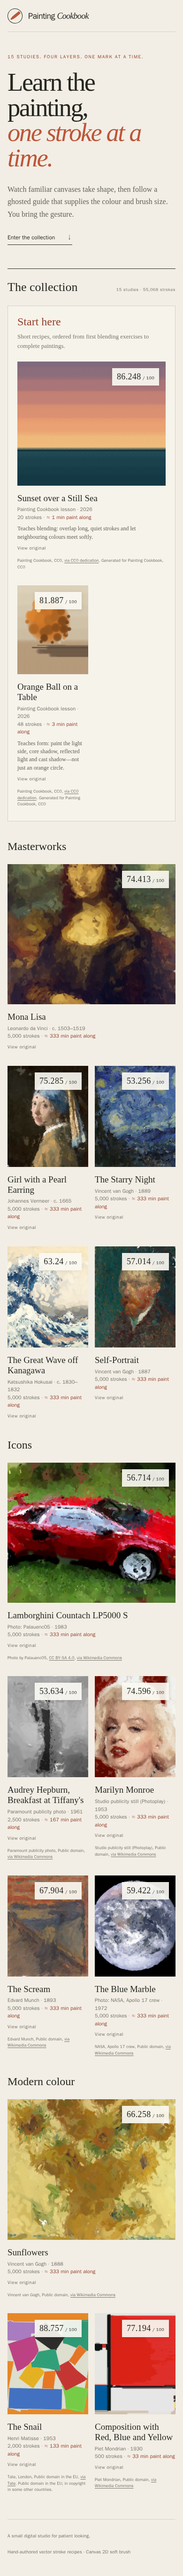
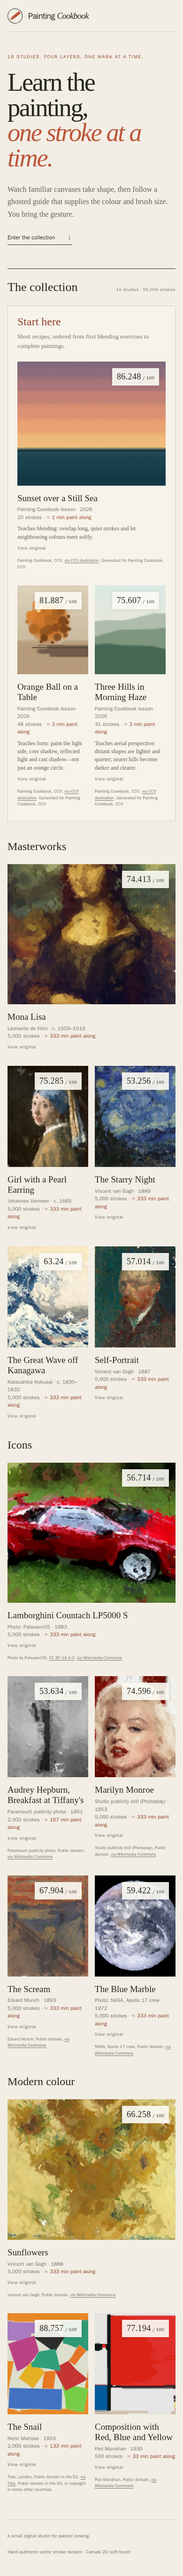
Add lesson-hills
Recipe(s) written by Kimi K3.1 Pro on Cerebras via OpenClaw; reviewed and published by Claude.

Changed region(s): [[0.5231, 0.2185, 0.9231, 0.3121]]

diff --git a/tools/plan_start.py b/tools/plan_start.py
@@ -9,7 +9,7 @@ import json
 from pathlib import Path
 
 import numpy as np
-from PIL import Image
+from PIL import Image, ImageDraw
 
 ROOT = Path(__file__).resolve().parents[1]
 STAGES = [
@@ -29,10 +29,16 @@ META = {
         "description": "One orange ball explains form in a handful of dabs: warm upper-left light, a deep core shadow, a quieter reflected edge and a cast shadow anchoring it to the table.",
         "lessonTip": "Teaches form: paint the light side, core shadow, reflected light and cast shadow—not just an orange circle.",
     },
+    "lesson-hills": {
+        "title": "Three Hills in Morning Haze", "artist": "Painting Cookbook lesson", "year": "2026",
+        "description": "Three overlapping hill bands demonstrate aerial perspective: the distant ridge is pale and quiet, the middle hill is cooler and darker, and the nearest slope carries the deepest green under a pale morning sky.",
+        "lessonTip": "Teaches aerial perspective: distant shapes are lighter and quieter; nearer hills become darker and clearer.",
+    },
 }
 CREDIT = {
     "lesson-sky": {"author": "Painting Cookbook", "licence": "CC0", "source": "CC0 dedication", "url": "https://creativecommons.org/publicdomain/zero/1.0/", "note": "Generated for Painting Cookbook, CC0"},
     "lesson-sphere": {"author": "Painting Cookbook", "licence": "CC0", "source": "CC0 dedication", "url": "https://creativecommons.org/publicdomain/zero/1.0/", "note": "Generated for Painting Cookbook, CC0"},
+    "lesson-hills": {"author": "Painting Cookbook", "licence": "CC0", "source": "CC0 dedication", "url": "https://creativecommons.org/publicdomain/zero/1.0/", "note": "Generated for Painting Cookbook, CC0"},
 }
 
 
@@ -174,7 +180,64 @@ def lesson_sphere():
     return recipe
 
 
-BUILDERS = {"lesson-sky": lesson_sky, "lesson-sphere": lesson_sphere}
+def lesson_hills():
+    """Thirty-one calm marks make three value-separated overlapping ridges."""
+    pid = "lesson-hills"
+    width, height = 960, 600
+    x = np.arange(width, dtype=float)
+
+    def ridge(base, long_amp, long_period, short_amp, short_period, phase):
+        return base + long_amp * np.sin(x / long_period + phase) + short_amp * np.sin(x / short_period + phase * 0.37)
+
+    definitions = [
+        ("far", ridge(250, 28, 170, 12, 61, 0.4), "#aebdac", 66),
+        ("middle", ridge(350, 42, 190, 17, 85, 1.0), "#7f967f", 76),
+        ("near", ridge(462, 34, 150, 14, 63, 2.0), "#476955", 86),
+    ]
+    top = rgb("#dce9e5")[None, :]
+    bottom = rgb("#f1e5cd")[None, :]
+    yy = np.arange(height, dtype=float)[:, None]
+    sky_values = top * (1 - yy / height) + bottom * (yy / height)
+    pixels = np.repeat(sky_values[:, None, :], width, axis=1)
+    reference = Image.fromarray(np.uint8(np.clip(pixels, 0, 255)), "RGB")
+    draw = ImageDraw.Draw(reference)
+    for _, top_y, c, _ in definitions:
+        polygon = [(int(xx), int(round(y))) for xx, y in zip(x, top_y)] + [(width - 1, height), (0, height)]
+        draw.polygon(polygon, fill=c)
+    reference.save(ROOT / "references" / f"{pid}.png")
+
+    recipe = recipe_shell(pid, width, height, "#eee2cb")
+    blocking, form, refinement, detail = [], [], [], []
+    for y in np.linspace(20, 410, 7):
+        blocking.append(stroke([-20, y, width + 20, y], colour(sky_values[int(y)]), 112, 0.96))
+
+    for index, (_, top_y, c, diameter) in enumerate(definitions):
+        # Broad contour strokes establish each overlap before the next ridge.
+        contour_path = []
+        for xx in np.linspace(0, width, 10):
+            contour_path.extend([xx, float(np.interp(xx, x, top_y))])
+        form.append(stroke(contour_path, c, diameter, 1.0))
+        lane_min = float(top_y.min() + diameter * 0.42)
+        for y in np.arange(lane_min, height + 20, 50):
+            inside = y >= top_y
+            padded = np.pad(inside.astype(np.uint8), (1, 1))
+            changes = np.diff(padded)
+            starts = np.flatnonzero(changes == 1)
+            ends = np.flatnonzero(changes == 255)
+            for start_x, end_x in zip(starts, ends):
+                if end_x - start_x > 5:
+                    form.append(stroke([start_x - 3, y, end_x + 3, y], c, diameter, 1.0))
+        # A fine crest pass clarifies the silhouette without adding detail noise.
+        target = detail if index == 2 else refinement
+        target.append(stroke(contour_path, c, 24 if index == 0 else 28, 1.0))
+
+    add_stages(recipe, [blocking, form, refinement, detail])
+    recipe["planner"] = "31 hand-paintable marks: seven quiet sky blends, horizontal hill fills and one broad plus one fine crest stroke for each overlapping value band"
+    assert 30 <= recipe["strokeCount"] <= 60
+    return recipe
+
+
+BUILDERS = {"lesson-sky": lesson_sky, "lesson-sphere": lesson_sphere, "lesson-hills": lesson_hills}
 
 
 def main():

diff --git a/REPORT.md b/REPORT.md
@@ -78,6 +78,7 @@ These recipes are ordered from easiest to hardest and selected by visual recogni
 |---|---:|---:|---:|
 | Sunset over a Still Sea | 20 | ≈ 1 min | **86.248** |
 | Orange Ball on a Table | 48 | ≈ 3 min | **81.887** |
+| Three Hills in Morning Haze | 31 | ≈ 2 min | **75.607** |
 
 ### Budget trials
 
@@ -85,5 +86,6 @@ These recipes are ordered from easiest to hardest and selected by visual recogni
 |---|---|---:|
 | Sunset over a Still Sea | 20 → 86.248 | **20** |
 | Orange Ball on a Table | 48 → 81.887 | **48** |
+| Three Hills in Morning Haze | 31 → 75.607 | **31** |
 
 The generated lesson references are original Pillow/NumPy images dedicated CC0. The five painting references use their source credits in the manifest and CREDITS.md.

diff --git a/CREDITS.md b/CREDITS.md
@@ -29,3 +29,4 @@ The original five masterwork reference images and their artists remain identifie
 
 - **_Sunset over a Still Sea_:** Generated for Painting Cookbook, CC0. Reference drawn in Python with Pillow/NumPy at 960 px wide; [CC0 dedication](https://creativecommons.org/publicdomain/zero/1.0/).
 - **_Orange Ball on a Table_:** Generated for Painting Cookbook, CC0. Reference drawn in Python with Pillow/NumPy at 960 px wide; [CC0 dedication](https://creativecommons.org/publicdomain/zero/1.0/).
+- **_Three Hills in Morning Haze_:** Generated for Painting Cookbook, CC0. Reference drawn in Python with Pillow/NumPy at 960 px wide; [CC0 dedication](https://creativecommons.org/publicdomain/zero/1.0/).
